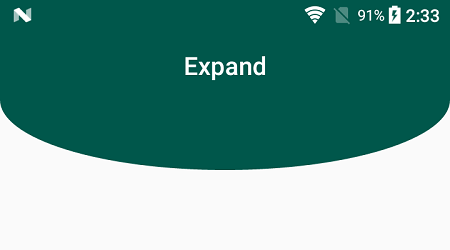
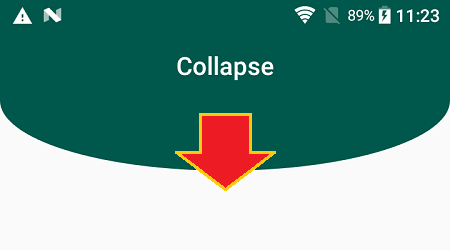
Add change color animation at the expanded lower half.
- Add change color animation.
- Update README.md

diff --git a/app/src/main/java/org/chenming/customtoolbardemo/MainActivity.java b/app/src/main/java/org/chenming/customtoolbardemo/MainActivity.java
@@ -7,6 +7,7 @@ import android.os.Bundle;
 import android.support.v7.widget.Toolbar;
 import android.util.DisplayMetrics;
 import android.util.TypedValue;
+import android.view.MenuItem;
 import android.view.View;
 import android.view.animation.OvershootInterpolator;
 import android.widget.Button;
@@ -52,47 +53,70 @@ public class MainActivity extends AppCompatActivity {
         button.setOnClickListener(onClickListener);
     }
 
+    @Override
+    public boolean onOptionsItemSelected(MenuItem item) {
+        if (item.getItemId() == android.R.id.home) {
+            ObjectAnimator animator = ObjectAnimator.ofArgb(arcBarView, "barColor", getResources().getColor(R.color.colorPrimaryDark));
+            animator.addListener(collapseAnimatorListener);
+            animator.start();
+        }
+        return super.onOptionsItemSelected(item);
+    }
+
     View.OnClickListener onClickListener = new View.OnClickListener() {
         @Override
         public void onClick(View v) {
             if (!isToolbarExpanded) {
                 ObjectAnimator animator = ObjectAnimator.ofInt(arcBarView, "expandHeight", toolbarHeight);
-                animator.addListener(animatorListener);
+                animator.addListener(expandAnimatorListener);
                 animator.setInterpolator(new OvershootInterpolator());
                 animator.setDuration(500)
                         .start();
-                isToolbarExpanded = true;
-            } else {
-                ObjectAnimator animator = ObjectAnimator.ofInt(arcBarView, "expandHeight", 0);
-                animator.setInterpolator(new OvershootInterpolator());
-                animator.addListener(animatorListener);
-                animator.setDuration(500)
-                        .start();
-//                getSupportActionBar().setDisplayHomeAsUpEnabled(false);
-//                toolbar.setBackgroundResource(android.R.color.transparent);
-//                arcBarView.setBarColor(getResources().getColor(R.color.colorPrimaryDark));
-                isToolbarExpanded = false;
             }
         }
     };
 
-    ObjectAnimator.AnimatorListener animatorListener = new ObjectAnimator.AnimatorListener() {
+    ObjectAnimator.AnimatorListener expandAnimatorListener = new ObjectAnimator.AnimatorListener() {
         @Override
         public void onAnimationStart(Animator animation) {
-
+            isToolbarExpanded = true;
         }
 
         @Override
         public void onAnimationEnd(Animator animation) {
-            if (isToolbarExpanded) {
-//                ObjectAnimator objectAnimator = ObjectAnimator.ofInt(arcBarView, "barColor", getResources().getColor(R.color.colorPrimary));
-//                objectAnimator.setDuration(30).start();
-//                getSupportActionBar().setDisplayHomeAsUpEnabled(true);
-//                toolbar.setBackgroundResource(R.color.colorPrimaryDark);
-                textViewTitle.setText("Expand");
-            } else {
-                textViewTitle.setText("Collapse");
-            }
+            ObjectAnimator objectAnimator = ObjectAnimator.ofArgb(arcBarView, "barColor", getResources().getColor(R.color.colorPrimary));
+            objectAnimator.start();
+            getSupportActionBar().setDisplayHomeAsUpEnabled(true);
+            toolbar.setBackgroundResource(R.color.colorPrimaryDark);
+            textViewTitle.setText("Expand");
+        }
+
+        @Override
+        public void onAnimationCancel(Animator animation) {
+
+        }
+
+        @Override
+        public void onAnimationRepeat(Animator animation) {
+
+        }
+    };
+
+    ObjectAnimator.AnimatorListener collapseAnimatorListener = new ObjectAnimator.AnimatorListener() {
+        @Override
+        public void onAnimationStart(Animator animation) {
+            getSupportActionBar().setDisplayHomeAsUpEnabled(false);
+        }
+
+        @Override
+        public void onAnimationEnd(Animator animation) {
+            ObjectAnimator animator = ObjectAnimator.ofInt(arcBarView, "expandHeight", 0);
+            animator.setInterpolator(new OvershootInterpolator());
+            animator.setDuration(500)
+                    .start();
+            toolbar.setBackgroundResource(android.R.color.transparent);
+            textViewTitle.setText("Collapse");
+            isToolbarExpanded = false;
         }
 
         @Override

diff --git a/README.md b/README.md
@@ -4,4 +4,5 @@ It will update with my study.
 ## ScreenShot
 - Arc and Expand Toolbar  
 ![screenshot_01](https://github.com/chenmingtw/CustomToolbarDemo/blob/master/README/screenshot_01.png "Collapse")
-![screenshot_02](https://github.com/chenmingtw/CustomToolbarDemo/blob/master/README/screenshot_02.png "Expand")
+![screenshot_02](https://github.com/chenmingtw/CustomToolbarDemo/blob/master/README/screenshot_02.png "Expanding")
+![screenshot_03](https://github.com/chenmingtw/CustomToolbarDemo/blob/master/README/screenshot_03.png "Expanded")
